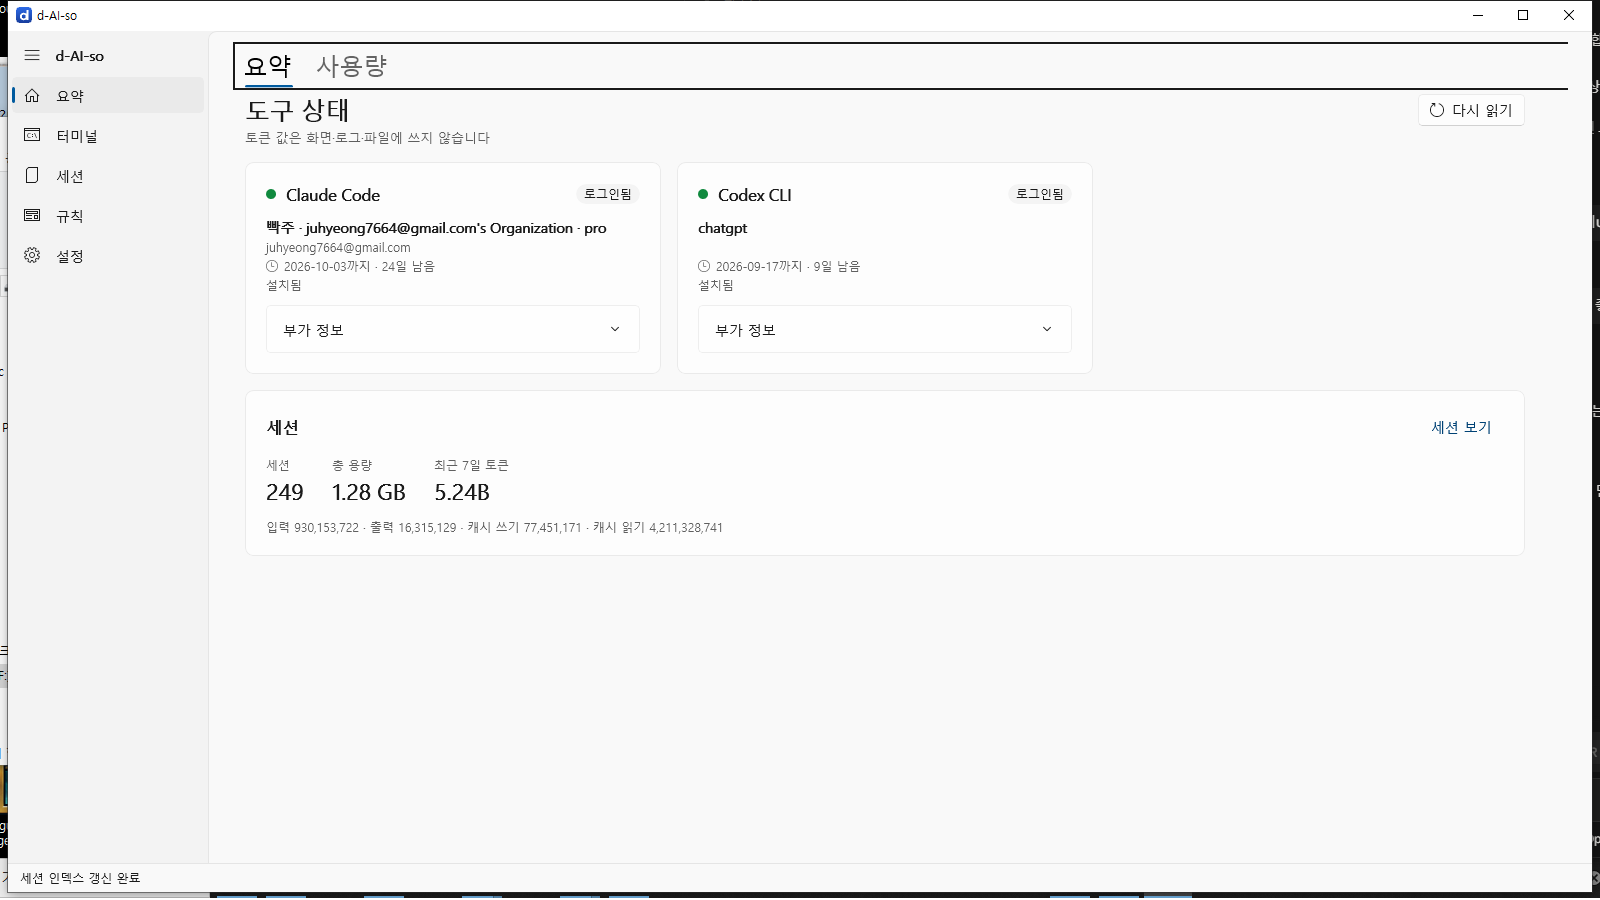
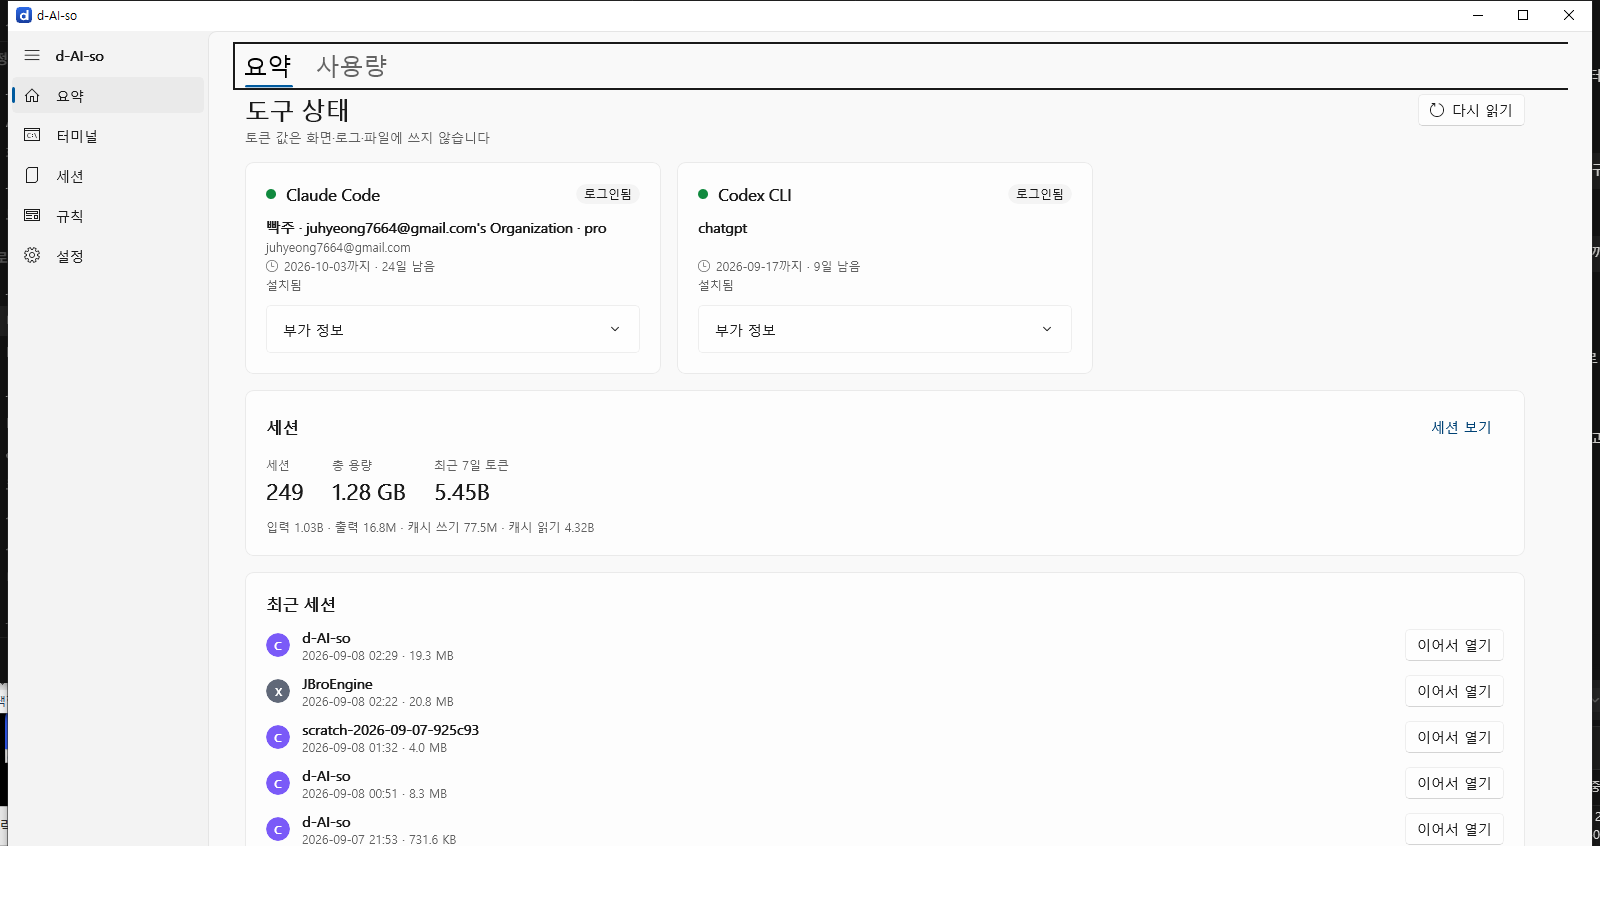
feat(app): 요약에 최근 세션 5건·바로 이어서 열기 추가, 상태 바 자동 숨김, Ctrl+F 검색란 포커스

diff --git a/src/Daiso.App/Views/DashboardPage.xaml b/src/Daiso.App/Views/DashboardPage.xaml
@@ -196,7 +196,69 @@
                                 Text="{x:Bind ViewModel.RecentUsageText, Mode=OneWay}"
                                 Style="{StaticResource MutedText}"
                                 TextTrimming="None"
-                                TextWrapping="Wrap" />
+                                TextWrapping="Wrap"
+                                ToolTipService.ToolTip="{x:Bind ViewModel.RecentUsageExact, Mode=OneWay}" />
+                        </StackPanel>
+                    </Border>
+
+                    <!-- 최근 세션 -->
+                    <Border Style="{StaticResource CardBorder}">
+                        <StackPanel Spacing="12">
+                            <TextBlock Text="{loc:Str Key=Dashboard_Recent}" Style="{StaticResource SectionTitleText}" />
+
+                            <Border
+                                Style="{StaticResource NoticeBorder}"
+                                Visibility="{x:Bind ViewModel.HasNoRecentSessions, Mode=OneWay}">
+                                <TextBlock Text="{loc:Str Key=Dashboard_RecentEmpty}" Style="{StaticResource PageSubtitleText}" />
+                            </Border>
+
+                            <ItemsControl
+                                AutomationProperties.AutomationId="RecentSessionList"
+                                ItemsSource="{x:Bind ViewModel.RecentSessions}">
+                                <ItemsControl.ItemTemplate>
+                                    <DataTemplate x:DataType="vm:RecentSessionViewModel">
+                                        <Grid ColumnSpacing="12" Margin="0,0,0,10">
+                                            <Grid.ColumnDefinitions>
+                                                <ColumnDefinition Width="Auto" />
+                                                <ColumnDefinition Width="*" />
+                                                <ColumnDefinition Width="Auto" />
+                                            </Grid.ColumnDefinitions>
+
+                                            <Border
+                                                Grid.Column="0"
+                                                Width="24"
+                                                Height="24"
+                                                CornerRadius="12"
+                                                VerticalAlignment="Center"
+                                                Background="{x:Bind ToolBrush}">
+                                                <TextBlock
+                                                    Text="{x:Bind ToolInitial}"
+                                                    Foreground="White"
+                                                    FontSize="11"
+                                                    FontWeight="SemiBold"
+                                                    HorizontalAlignment="Center"
+                                                    VerticalAlignment="Center" />
+                                            </Border>
+
+                                            <StackPanel Grid.Column="1" Spacing="1">
+                                                <TextBlock
+                                                    Text="{x:Bind ProjectText}"
+                                                    Style="{ThemeResource BodyStrongTextBlockStyle}"
+                                                    TextWrapping="NoWrap"
+                                                    TextTrimming="CharacterEllipsis"
+                                                    ToolTipService.ToolTip="{x:Bind PathText}" />
+                                                <TextBlock Text="{x:Bind MetaText}" Style="{StaticResource MutedText}" />
+                                            </StackPanel>
+
+                                            <Button
+                                                Grid.Column="2"
+                                                Content="{loc:Str Key=Dashboard_ResumeHere}"
+                                                Click="OnResumeRecentClick"
+                                                DataContext="{x:Bind}" />
+                                        </Grid>
+                                    </DataTemplate>
+                                </ItemsControl.ItemTemplate>
+                            </ItemsControl>
                         </StackPanel>
                     </Border>
 

diff --git a/src/Daiso.App/Views/SessionsPage.xaml b/src/Daiso.App/Views/SessionsPage.xaml
@@ -7,6 +7,10 @@
     xmlns:vm="using:Daiso.App.ViewModels">
 
     <Grid Padding="{StaticResource PagePadding}" RowSpacing="14">
+        <Grid.KeyboardAccelerators>
+            <KeyboardAccelerator Modifiers="Control" Key="F" Invoked="OnFocusSearchInvoked" />
+        </Grid.KeyboardAccelerators>
+
         <Grid.RowDefinitions>
             <RowDefinition Height="Auto" />
             <RowDefinition Height="Auto" />
@@ -31,6 +35,7 @@
             </StackPanel>
 
             <TextBox
+                x:Name="SearchBox"
                 Grid.Column="1"
                 VerticalAlignment="Top"
                 Margin="0,4,0,0"
@@ -46,9 +51,6 @@
                     ToolTipService.ToolTip="{loc:Str Key=Common_Search}"
                     Style="{ThemeResource AccentButtonStyle}"
                     Command="{x:Bind ViewModel.SearchCommand}">
-                    <Button.KeyboardAccelerators>
-                        <KeyboardAccelerator Modifiers="Control" Key="F" />
-                    </Button.KeyboardAccelerators>
                     <FontIcon Glyph="&#xE721;" FontSize="14" />
                 </Button>
                 <Button
@@ -262,7 +264,14 @@
                             Margin="16"
                             VerticalAlignment="Top"
                             Visibility="{x:Bind ViewModel.IsListEmpty, Mode=OneWay}">
-                            <TextBlock Text="{loc:Str Key=Sessions_EmptyList}" Style="{StaticResource PageSubtitleText}" />
+                            <StackPanel Spacing="10">
+                                <TextBlock Text="{loc:Str Key=Sessions_EmptyList}" Style="{StaticResource PageSubtitleText}" />
+                                <Button
+                                    Content="{loc:Str Key=Sessions_ReloadList}"
+                                    HorizontalAlignment="Left"
+                                    AutomationProperties.AutomationId="EmptyReloadButton"
+                                    Command="{x:Bind ViewModel.LoadCommand}" />
+                            </StackPanel>
                         </Border>
                     </Grid>
                 </Grid>

diff --git a/src/Daiso.App/ShellWindow.xaml b/src/Daiso.App/ShellWindow.xaml
@@ -58,6 +58,7 @@
         </muxc:NavigationView>
 
         <Border
+            x:Name="StatusBar"
             Grid.Row="1"
             Padding="12,6"
             BorderThickness="0,1,0,0"

diff --git a/src/Daiso.App/ViewModels/DashboardViewModel.cs b/src/Daiso.App/ViewModels/DashboardViewModel.cs
@@ -4,6 +4,7 @@ using CommunityToolkit.Mvvm.Input;
 using Daiso.App.Services;
 using Daiso.Core;
 using Daiso.App.Strings;
+using Microsoft.Extensions.DependencyInjection;
 using Microsoft.UI;
 using Microsoft.UI.Xaml.Media;
 using Windows.UI;
@@ -48,6 +49,18 @@ public sealed partial class DashboardViewModel : ObservableObject
             _providers.Select(provider => new ToolCardViewModel(provider.Kind)));
     }
 
+    /// <summary>요약에 보여줄 최근 세션 수.</summary>
+    private const int RecentSessionCount = 5;
+
+    /// <summary>가장 최근에 손댄 세션 몇 건. 바로 이어서 열 수 있다.</summary>
+    public ObservableCollection<RecentSessionViewModel> RecentSessions { get; } = [];
+
+    /// <summary>최근 세션이 있는가.</summary>
+    public bool HasRecentSessions => RecentSessions.Count > 0;
+
+    /// <summary>최근 세션이 없는가. 첫 실행 안내에 쓴다.</summary>
+    public bool HasNoRecentSessions => RecentSessions.Count == 0;
+
     /// <summary>도구 카드. Claude, Codex 순서.</summary>
     public ObservableCollection<ToolCardViewModel> Tools { get; }
 
@@ -60,10 +73,18 @@ public sealed partial class DashboardViewModel : ObservableObject
     /// <summary>최근 사용량 요약 문구.</summary>
     public string RecentUsageText => UiStrings.Format(
         "Dashboard_UsageBreakdown",
-        RecentUsage.Input,
-        RecentUsage.Output,
-        RecentUsage.CacheCreate,
-        RecentUsage.CacheRead);
+        Formats.Tokens(RecentUsage.Input),
+        Formats.Tokens(RecentUsage.Output),
+        Formats.Tokens(RecentUsage.CacheCreate),
+        Formats.Tokens(RecentUsage.CacheRead));
+
+    /// <summary>같은 내용의 정확한 값. ToolTip에 쓴다.</summary>
+    public string RecentUsageExact => UiStrings.Format(
+        "Dashboard_UsageBreakdown",
+        Formats.Exact(RecentUsage.Input),
+        Formats.Exact(RecentUsage.Output),
+        Formats.Exact(RecentUsage.CacheCreate),
+        Formats.Exact(RecentUsage.CacheRead));
 
     /// <summary>세션 수와 총 용량 한 줄.</summary>
     public string SessionSummaryText =>
@@ -80,6 +101,19 @@ public sealed partial class DashboardViewModel : ObservableObject
 
     /// <summary>사용량 카드 제목.</summary>
     public string UsageHeaderText => UiStrings.Format("Dashboard_StatTokens", UsageDayCount);
+
+    /// <summary>최근 세션을 Terminal 화면에 채워 둔다. 실행은 사람이 누른다.</summary>
+    public void PrepareResume(SessionInfo session)
+    {
+        ArgumentNullException.ThrowIfNull(session);
+
+        var provider = _providers.First(item => item.Kind == session.Tool);
+        var terminal = App.Services.GetRequiredService<TerminalViewModel>();
+
+        terminal.PrepareResume(
+            session.ProjectPath ?? string.Empty,
+            provider.BuildResumeArguments(session));
+    }
 
     /// <summary>도구 상태와 세션·사용량 요약을 다시 읽는다.</summary>
     [RelayCommand]
@@ -109,6 +143,18 @@ public sealed partial class DashboardViewModel : ObservableObject
             SessionCount = sessions.Count;
             TotalSizeBytes = sessions.Sum(session => session.SizeBytes);
 
+            RecentSessions.Clear();
+
+            foreach (var session in sessions
+                .OrderByDescending(session => session.ModifiedAt)
+                .Take(RecentSessionCount))
+            {
+                RecentSessions.Add(new RecentSessionViewModel(session));
+            }
+
+            OnPropertyChanged(nameof(HasRecentSessions));
+            OnPropertyChanged(nameof(HasNoRecentSessions));
+
             var to = DateOnly.FromDateTime(DateTime.UtcNow);
             var usage = await _indexService.Index
                 .GetUsageAsync(to.AddDays(-(UsageDays - 1)), to, ct)
@@ -118,6 +164,7 @@ public sealed partial class DashboardViewModel : ObservableObject
 
             OnPropertyChanged(nameof(TotalSizeText));
             OnPropertyChanged(nameof(RecentUsageText));
+            OnPropertyChanged(nameof(RecentUsageExact));
             OnPropertyChanged(nameof(SessionSummaryText));
             OnPropertyChanged(nameof(SessionCountText));
             OnPropertyChanged(nameof(RecentTokensText));
@@ -152,6 +199,32 @@ public sealed partial class DashboardViewModel : ObservableObject
         < 1024L * 1024 * 1024 => $"{bytes / (1024.0 * 1024):N1} MB",
         _ => $"{bytes / (1024.0 * 1024 * 1024):N2} GB",
     };
+}
+
+/// <summary>요약 화면의 최근 세션 한 줄.</summary>
+public sealed class RecentSessionViewModel
+{
+    public RecentSessionViewModel(SessionInfo session) => Session = session;
+
+    public SessionInfo Session { get; }
+
+    /// <summary>도구 한 글자.</summary>
+    public string ToolInitial => Session.Tool == ToolKind.Claude ? "C" : "X";
+
+    /// <summary>도구 색.</summary>
+    public Brush ToolBrush => new SolidColorBrush(Session.Tool == ToolKind.Claude
+        ? Color.FromArgb(255, 122, 90, 248)
+        : Color.FromArgb(255, 96, 104, 120));
+
+    /// <summary>프로젝트 이름. 경로 전체는 ToolTip에 둔다.</summary>
+    public string ProjectText => Formats.FolderName(Session.ProjectPath);
+
+    /// <summary>전체 경로.</summary>
+    public string PathText => Session.ProjectPath ?? string.Empty;
+
+    /// <summary>시각과 용량.</summary>
+    public string MetaText =>
+        $"{Session.ModifiedAt.ToLocalTime():yyyy-MM-dd HH:mm} · {DashboardViewModel.FormatSize(Session.SizeBytes)}";
 }
 
 /// <summary>도구 하나의 카드 상태. 토큰 값은 어떤 속성에도 담지 않는다. (ARCHITECTURE §7.1)</summary>

diff --git a/src/Daiso.App/Views/DashboardPage.xaml.cs b/src/Daiso.App/Views/DashboardPage.xaml.cs
@@ -33,6 +33,18 @@ public sealed partial class DashboardPage : Page
 
     private static void Go(string tag) => (App.MainWindow as ShellWindow)?.NavigateTo(tag);
 
+    /// <summary>최근 세션을 Terminal 화면에 채워 넣고 그 화면으로 보낸다.</summary>
+    private void OnResumeRecentClick(object sender, RoutedEventArgs e)
+    {
+        if (sender is not FrameworkElement { DataContext: RecentSessionViewModel row })
+        {
+            return;
+        }
+
+        ViewModel.PrepareResume(row.Session);
+        Go("Terminal");
+    }
+
     private async void OnLoginClick(object sender, RoutedEventArgs e)
     {
         if (sender is FrameworkElement { DataContext: ToolCardViewModel card })

diff --git a/src/Daiso.App/ShellWindow.xaml.cs b/src/Daiso.App/ShellWindow.xaml.cs
@@ -81,6 +81,10 @@ public sealed partial class ShellWindow : Window
 
     private void ApplyStatus()
     {
+        // 보여줄 상태가 없으면 바 자체를 숨긴다. 빈 줄이 화면 아래를 먹지 않게.
+        var hasStatus = !string.IsNullOrWhiteSpace(_viewModel.StatusMessage) || _viewModel.IsIndexing;
+        StatusBar.Visibility = hasStatus ? Visibility.Visible : Visibility.Collapsed;
+
         StatusText.Text = _viewModel.StatusMessage;
         StatusProgress.Visibility = _viewModel.IsIndexing ? Visibility.Visible : Visibility.Collapsed;
         StatusProgress.IsIndeterminate = _viewModel.StatusPercent <= 0;

diff --git a/src/Daiso.App/Views/SessionsPage.xaml.cs b/src/Daiso.App/Views/SessionsPage.xaml.cs
@@ -76,6 +76,15 @@ public sealed partial class SessionsPage : Page
         }
     }
 
+    /// <summary>Ctrl+F는 검색란으로 커서를 옮긴다.</summary>
+    private void OnFocusSearchInvoked(
+        Microsoft.UI.Xaml.Input.KeyboardAccelerator sender,
+        Microsoft.UI.Xaml.Input.KeyboardAcceleratorInvokedEventArgs args)
+    {
+        SearchBox.Focus(FocusState.Programmatic);
+        args.Handled = true;
+    }
+
     private async void OnSearchKeyDown(object sender, Microsoft.UI.Xaml.Input.KeyRoutedEventArgs e)
     {
         if (e.Key == VirtualKey.Enter)

diff --git a/docs/UX_SCENARIOS.md b/docs/UX_SCENARIOS.md
@@ -84,7 +84,11 @@
 | RuleMaker | 빈 규칙 미리보기가 `###` 껍데기를 보여주던 것을 안내 문구로 바꿨다. 규칙 요약은 `(빈 조건) → 행동 1개`처럼 조건 없음을 밝힌다 |
 | Dashboard | 만료를 `2026-10-03까지 · 25일 남음`으로. 로그인돼 있으면 로그인 버튼을 숨기고, 상태는 색 점 + 알약으로 |
 | Dashboard | 세션 요약을 숫자 3개(세션·용량·토큰)로 크게. `세션 보기` 링크로 목록으로 보낸다 |
-| 전체 | 아이콘 버튼에 `AutomationProperties.Name`과 ToolTip을 달았다. Ctrl+S·Ctrl+O(RuleMaker), Ctrl+F·F5(Sessions) |
+| 전체 | 아이콘 버튼에 `AutomationProperties.Name`과 ToolTip을 달았다. Ctrl+S·Ctrl+O(RuleMaker), Ctrl+F(검색란 포커스)·F5(Sessions) |
+| Dashboard | 아래 절반이 비어 있던 자리에 `최근 세션` 5건을 넣고, 각 줄에서 바로 `이어서 열기`(Terminal에 인자를 채워 이동)를 할 수 있게 했다 |
+| 전체 | 상태 바는 보여줄 내용이 없으면 숨긴다. 빈 줄이 화면 아래를 먹지 않게 |
+| Sessions | 목록이 비었을 때 안내 안에 `목록 새로 읽기` 버튼을 둔다 |
+| Dashboard | 사용량 내역도 줄여 쓴다(`입력 1.03B · 출력 16.8M`). 정확한 값은 ToolTip |
 
 ## 2차 검증 (수정 후)
 
